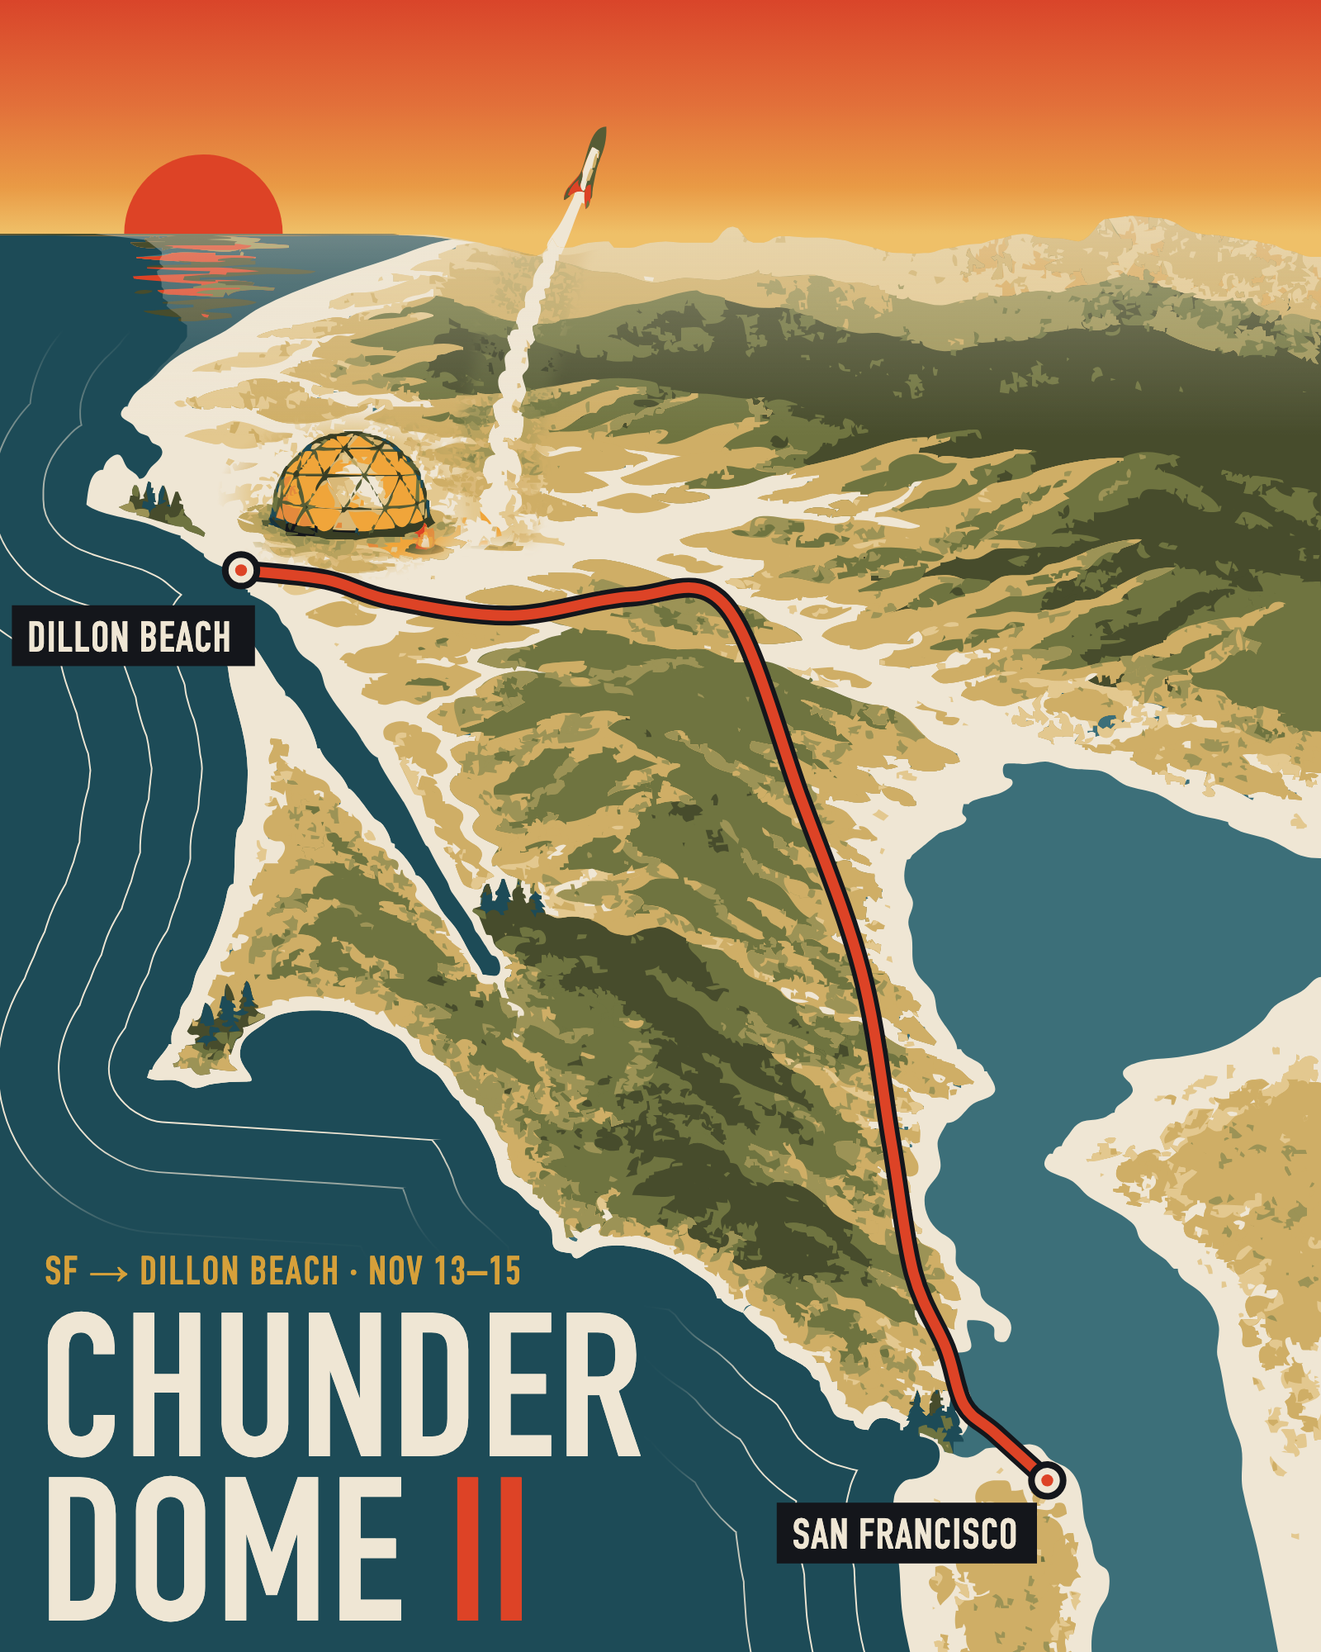
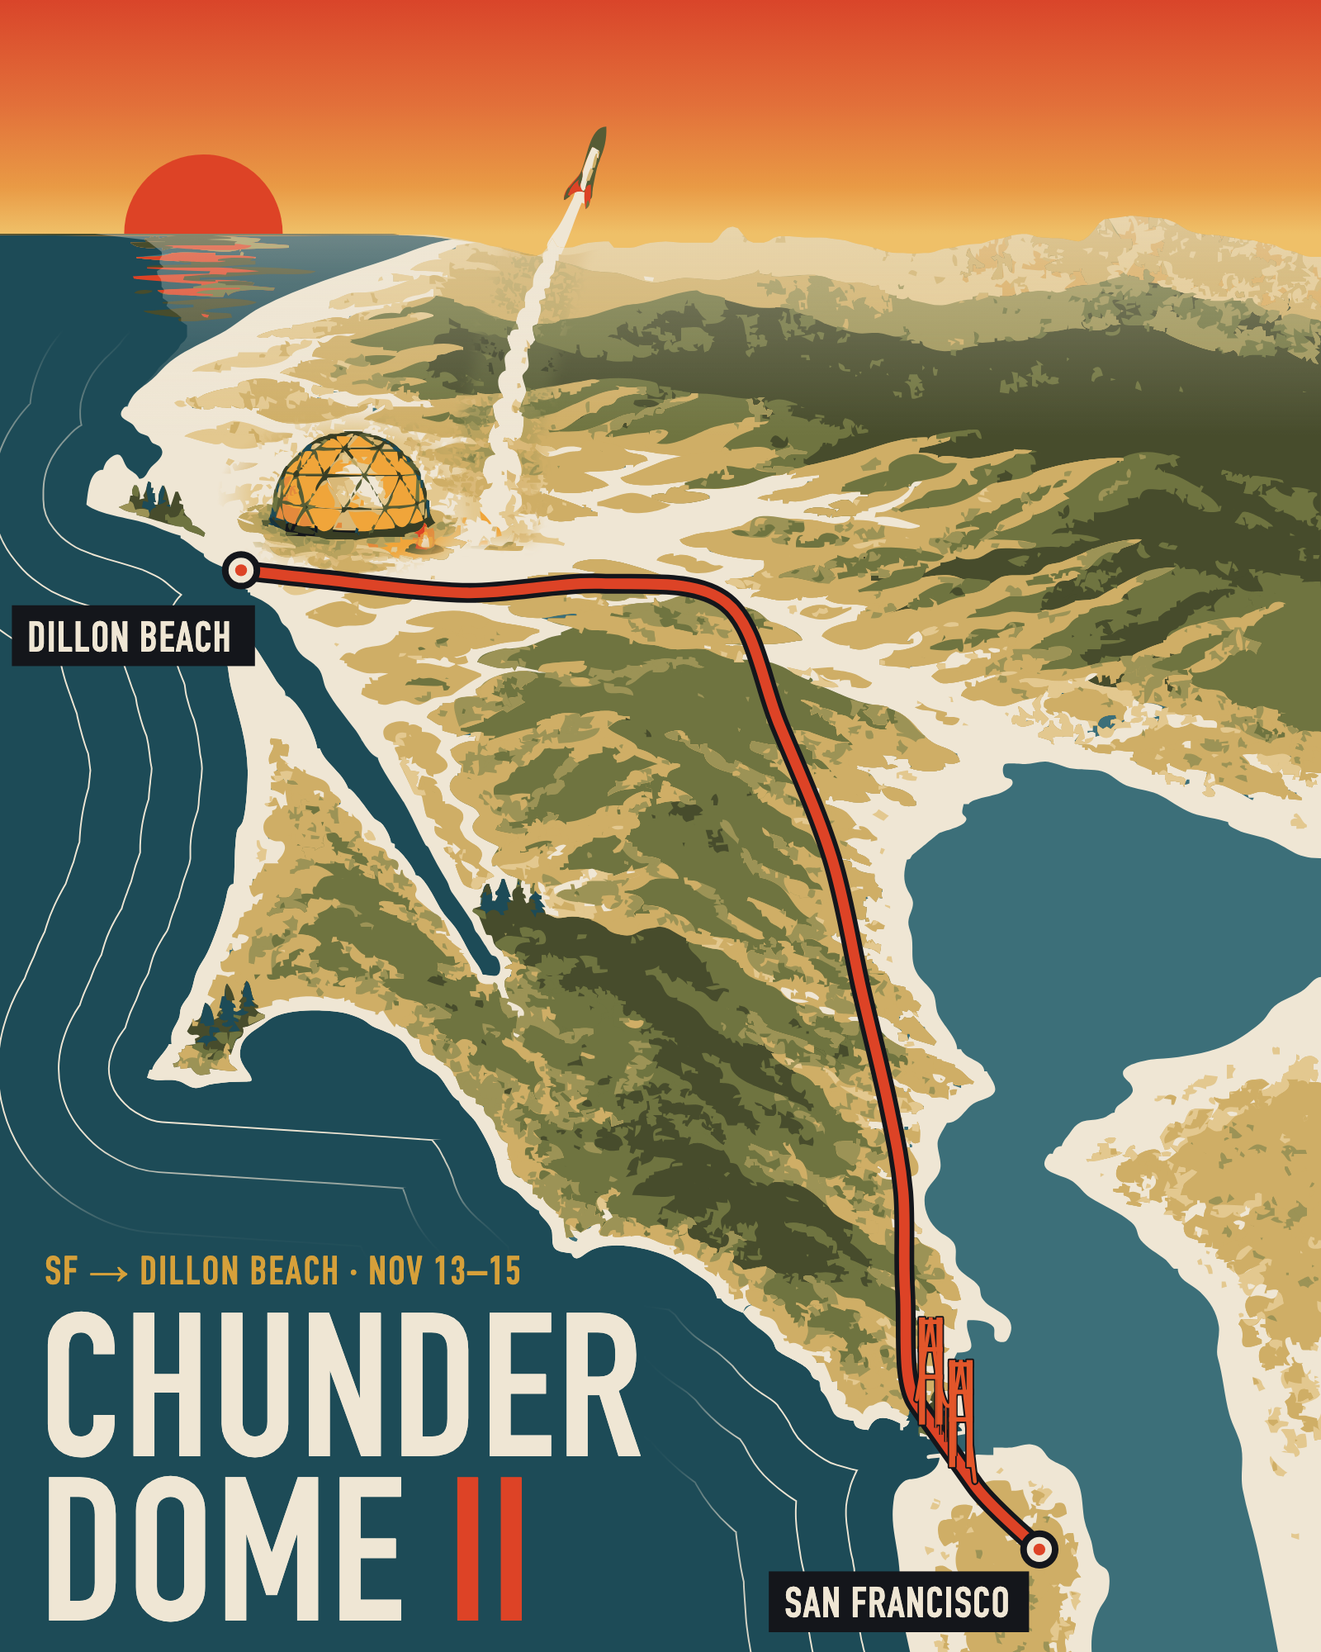
feat: poster map v4 — Golden Gate Bridge and a correct crossing
The art had closed the strait and sat ~40px south of the projection, so
the route crossed open bay. Cut the strait back in as a vector channel,
draw the Golden Gate Bridge (International Orange towers, cable drape)
spanning it, and rebuild the route from real road waypoints registered
to the art at the bridge anchorages. verify_route.py: 0 of 1155 samples
on water off the bridge; overlay in map/poster/route-check.png.

Changed region(s): [[0.2188, 0.341, 0.8125, 0.992]]

diff --git a/components/MapArt.tsx b/components/MapArt.tsx
@@ -8,7 +8,7 @@ export default function MapArt() {
     <div className="poster-frame">
       <Image
         src={poster}
-        alt="Screen-print poster map: Chunderdome II, from San Francisco over the Golden Gate, north on 101 and west through Tomales to the dome at Dillon Beach, where a model rocket is launching at sunset"
+        alt="Screen-print poster map: Chunderdome II, from San Francisco across the Golden Gate Bridge, north on 101 and west through Tomales to the dome at Dillon Beach, where a model rocket is launching at sunset"
         priority
         placeholder="blur"
         sizes="(max-width: 560px) 100vw, 560px"

diff --git a/map/poster/scripts/compose4.py b/map/poster/scripts/compose4.py
@@ -1,0 +1,188 @@
+# Compose poster map v4 (adds the Golden Gate strait + bridge and a registered real-road route):
+# was v3: Monge-traced v5 terrain (dome and model rocket painted in) + native vector sky, haze,
+# bathymetry (from Monge's own traced coastline), smoothed route, markers, plates and type.
+import sys, re, json; sys.path.insert(0, __file__.rsplit('/',1)[0]); from geo import *
+D = __file__.rsplit('/',2)[0]
+INK, CREAM, VERM, TEAL, OCHRE, OLIVE = '#14161b', '#efe6d4', '#dd4326', '#1d4b57', '#d6a03a', '#6f7440'
+FONT = "'DIN Condensed', 'Oswald', 'Bebas Neue', 'Arial Narrow', Impact, sans-serif"
+K = 1000 / 1024
+
+src = open(f'{D}/sources/terrain-v5-clean.svg').read()
+terrain = re.sub(r'^.*?<svg[^>]*>|</svg>\s*$', '', src, flags=re.S)
+# The painted dome and rocket, from Monge's 16-colour cartoon retrace of the same raster (exactly aligned).
+dome_detail = re.sub(r'^.*?<svg[^>]*>|</svg>\s*$', '', open(f'{D}/sources/detail-v5.svg').read(), flags=re.S)
+# The coastline the art actually drew: open Pacific scanned row by row from the raster (scripts/coast.mjs).
+coast = json.load(open(f'{D}/sources/coast-v5.json'))
+ocean_d = (f'M{coast[0][0]},-400 ' + ' '.join(f'L{x},{y}' for x, y in coast)
+           + f' L{coast[-1][0]},1650 L-400,1650 L-400,-400 Z')
+
+sky = json.load(open(f'{D}/sources/skyline-v5.json'))
+HORIZON = sky[0][1]
+# Left of the ridges is open sea running to the horizon; the sun sets into it.
+sky = [[x, HORIZON if x < 300 else y] for x, y in sky]
+sky_d = 'M0,0 ' + ' '.join(f'L{x},{y}' for x, y in sky) + ' L1000,0 Z'
+below_d = 'M0,1250 ' + ' '.join(f'L{x},{y}' for x, y in sky) + ' L1000,1250 Z'
+
+def smooth(pts, before=None, after=None):
+    # Catmull-Rom through the route points, as cubic Béziers; before/after set the end tangents.
+    p = [before or pts[0]] + pts + [after or pts[-1]]
+    out = f'M{p[1][0]:.1f},{p[1][1]:.1f}'
+    for i in range(1, len(p) - 2):
+        a, b, c, d = p[i - 1], p[i], p[i + 1], p[i + 2]
+        c1 = (b[0] + (c[0] - a[0]) / 6, b[1] + (c[1] - a[1]) / 6)
+        c2 = (c[0] - (d[0] - b[0]) / 6, c[1] - (d[1] - b[1]) / 6)
+        out += f' C{c1[0]:.1f},{c1[1]:.1f} {c2[0]:.1f},{c2[1]:.1f} {c[0]:.1f},{c[1]:.1f}'
+    return out
+
+# Real road waypoints: SF via 19th Ave/Park Presidio, the bridge deck, US-101 through Marin to Petaluma,
+# Bodega Ave/Tomales Rd west through Tomales, Dillon Beach Rd to Dillon Beach.
+ROAD = [(37.765,-122.42),(37.8078,-122.4750),                       # SF -> south anchorage
+        (37.8324,-122.4795),                                                          # north anchorage
+        (37.885,-122.505),(37.925,-122.515),(37.97,-122.527),(38.03,-122.545),(38.10,-122.565),
+        (38.17,-122.60),(38.235,-122.636),(38.245,-122.72),(38.24,-122.81),(38.247,-122.905),(38.252,-122.962)]
+SOUTH, NORTH = 1, 2   # indices of the bridge anchorages in ROAD
+
+# The art drew the Golden Gate about 40px south of the projection, so register the route to the art with a
+# local displacement field: control points measured on raster-v5 (scripts/gridcrop.py), Gaussian falloff.
+BRIDGE_S, BRIDGE_N = (738.0, 1124.0), (694.0, 1062.0)   # anchorages on the art's SF tip and Marin headland (poster-scale span)
+CONTROLS = [(P(*ROAD[SOUTH]), BRIDGE_S), (P(*ROAD[NORTH]), BRIDGE_N), (P(*ROAD[0]), (786.0, 1170.0))]
+def register(p, sigma=60.0):
+    import math
+    sx = sy = sw = 0.0
+    for (c, t) in CONTROLS:
+        w = math.exp(-((p[0]-c[0])**2 + (p[1]-c[1])**2) / (2 * sigma * sigma))
+        sx += w * (t[0] - c[0]); sy += w * (t[1] - c[1]); sw += w
+    k = 1 / max(1.0, sw)
+    return (p[0] + sx * k, p[1] + sy * k)
+ROUTE_XY = [register(P(*q)) for q in ROAD]
+ROUTE_XY[SOUTH], ROUTE_XY[NORTH] = BRIDGE_S, BRIDGE_N
+
+# Curves on land; the span is straight, and the curves leave each anchorage along the deck.
+deck = (BRIDGE_N[0] - BRIDGE_S[0], BRIDGE_N[1] - BRIDGE_S[1])
+a, b = ROUTE_XY[SOUTH - 1], ROUTE_XY[NORTH + 1]
+head = smooth(ROUTE_XY[:SOUTH + 1], after=(a[0] + 1.6 * deck[0], a[1] + 1.6 * deck[1]))
+tail = smooth(ROUTE_XY[NORTH:], before=(b[0] - 1.6 * deck[0], b[1] - 1.6 * deck[1]))
+route = head + f' L{BRIDGE_N[0]},{BRIDGE_N[1]} ' + tail[tail.index('C'):]
+sf, dil = ROUTE_XY[0], ROUTE_XY[-1]
+DOME = (264, 371)
+
+SIZE = 32
+def plate(text, x, y, anchor):
+    """Ink plate whose vertical centre sits on y; anchor 'left' puts its left edge at x, 'right' its right edge."""
+    w = len(text) * (SIZE * 0.385 + 1) + 24; h = SIZE + 14
+    x0 = x if anchor == 'left' else x - w
+    return (f'<rect x="{x0:.0f}" y="{y - h/2:.0f}" width="{w:.0f}" height="{h:.0f}" fill="{INK}"/>'
+            f'<text x="{x0 + 12:.0f}" y="{y + SIZE*0.36:.0f}" font-size="{SIZE}" fill="{CREAM}">{text}</text>')
+
+# The art closed the Golden Gate with a sandy neck; cut the strait back in (real width ~1.6 km = ~20 px here).
+CHANNEL = 'M684,1086 C700,1088 712,1087 724,1085 C732,1083 740,1081 752,1080 L752,1101 C740,1101 732,1100 724,1100 C712,1101 700,1103 684,1104 Z'
+SHORES = 'M703,1087.6 C712,1087 718,1086 731,1083.6 M703,1102.4 C712,1101.2 718,1100.2 731,1100'
+
+def bridge():
+    """Golden Gate Bridge in International Orange: deck on the route, two Art-Deco towers, main cable drape."""
+    (sx, sy), (nx, ny) = BRIDGE_S, BRIDGE_N; H = 80.0; ORANGE = '#e3562a'
+    at = lambda t: (sx + (nx - sx) * t, sy + (ny - sy) * t)
+    t1, t2 = at(0.24), at(0.76); top1, top2 = (t1[0], t1[1] - H), (t2[0], t2[1] - H)
+    mid = ((top1[0] + top2[0]) / 2, (top1[1] + top2[1]) / 2 + H * 0.62)
+    cable = (f'M{sx:.1f},{sy - 3:.1f} Q{(sx + top1[0]) / 2 + 1:.1f},{(sy + top1[1]) / 2 + 6:.1f} {top1[0]:.1f},{top1[1]:.1f}'
+             f' Q{2 * mid[0] - (top1[0] + top2[0]) / 2:.1f},{2 * mid[1] - (top1[1] + top2[1]) / 2:.1f} {top2[0]:.1f},{top2[1]:.1f}'
+             f' Q{(nx + top2[0]) / 2 - 1:.1f},{(ny + top2[1]) / 2 + 6:.1f} {nx:.1f},{ny - 3:.1f}')
+    hangers = ''
+    for i in range(1, 6):
+        t = 0.24 + 0.52 * i / 6; d = at(t)
+        u = i / 6; cy = (1 - u) ** 2 * top1[1] + 2 * u * (1 - u) * (2 * mid[1] - (top1[1] + top2[1]) / 2) + u * u * top2[1]
+        hangers += f'<line x1="{d[0]:.1f}" y1="{d[1] - 2:.1f}" x2="{d[0]:.1f}" y2="{cy + 1:.1f}"/>'
+    def tower(base):
+        x, y = base; w = 4.6; gap = 6.6
+        legs = ''.join(f'<rect x="{x + o - w / 2:.1f}" y="{y - H:.1f}" width="{w}" height="{H + 1:.1f}"/>' for o in (-gap, gap))
+        beams = ''.join(f'<rect x="{x - gap - w / 2:.1f}" y="{y - H * f:.1f}" width="{2 * gap + w:.1f}" height="3.4"/>' for f in (0.98, 0.72, 0.46))
+        return legs + beams
+    towers = tower(t1) + tower(t2)
+    return (f'<g id="golden-gate-bridge">'
+            f'<g fill="none" stroke="{INK}" stroke-width="5.4" stroke-linecap="round"><path d="{cable}"/></g>'
+            f'<g stroke="{INK}" stroke-width="2.6">{hangers}</g>'
+            f'<g fill="{INK}" stroke="{INK}" stroke-width="2.2" stroke-linejoin="round">{towers}</g>'
+            f'<g fill="none" stroke="{ORANGE}" stroke-width="2.8" stroke-linecap="round"><path d="{cable}"/></g>'
+            f'<g stroke="{ORANGE}" stroke-width="0.9">{hangers}</g>'
+            f'<g fill="{ORANGE}">{towers}</g></g>')
+
+def marker(p):
+    return (f'<circle cx="{p[0]:.1f}" cy="{p[1]:.1f}" r="12" fill="{CREAM}" stroke="{INK}" stroke-width="5"/>'
+            f'<circle cx="{p[0]:.1f}" cy="{p[1]:.1f}" r="4.5" fill="{VERM}"/>')
+
+contours = ''.join(f'<path d="{ocean_d}" stroke="{CREAM}" stroke-width="{2*d+2.4}"/><path d="{ocean_d}" stroke="{TEAL}" stroke-width="{2*d}"/>'
+                   for d in (118, 72, 34))
+
+svg = f'''<svg xmlns="http://www.w3.org/2000/svg" viewBox="0 0 1000 1250" width="1200" height="1500">
+<title>Chunderdome II route map: San Francisco to Dillon Beach</title>
+<defs>
+  <clipPath id="frame"><rect width="1000" height="1250"/></clipPath>
+  <clipPath id="sky"><path d="{sky_d}"/></clipPath>
+  <clipPath id="land-and-sea"><path d="{below_d}"/></clipPath>
+  <clipPath id="sea"><path d="{ocean_d}"/></clipPath>
+  <linearGradient id="dusk" gradientUnits="userSpaceOnUse" x1="0" y1="0" x2="0" y2="{HORIZON}">
+    <stop offset="0" stop-color="#d9452a"/><stop offset="0.45" stop-color="#e2703a"/>
+    <stop offset="0.8" stop-color="#e99a45"/><stop offset="1" stop-color="#efc068"/>
+  </linearGradient>
+  <linearGradient id="haze" gradientUnits="userSpaceOnUse" x1="0" y1="{HORIZON - 70}" x2="0" y2="330">
+    <stop offset="0" stop-color="{CREAM}" stop-opacity="0.62"/><stop offset="0.45" stop-color="{CREAM}" stop-opacity="0.28"/>
+    <stop offset="1" stop-color="{CREAM}" stop-opacity="0"/>
+  </linearGradient>
+  <linearGradient id="offshore-fade" gradientUnits="userSpaceOnUse" x1="0" y1="250" x2="0" y2="420">
+    <stop offset="0" stop-color="#000"/><stop offset="1" stop-color="#fff"/>
+  </linearGradient>
+  <radialGradient id="glow"><stop offset="0" stop-color="#f6c45a" stop-opacity="0.55"/><stop offset="0.5" stop-color="#e48a3c" stop-opacity="0.22"/><stop offset="1" stop-color="#e48a3c" stop-opacity="0"/></radialGradient>
+  <filter id="soft" x="-30%" y="-30%" width="160%" height="160%"><feGaussianBlur stdDeviation="5"/></filter>
+  <radialGradient id="dome-fade"><stop offset="0.72" stop-color="#fff"/><stop offset="1" stop-color="#000"/></radialGradient>
+  <mask id="dome-feather" maskUnits="userSpaceOnUse" x="0" y="0" width="1000" height="1250">
+    <ellipse cx="{DOME[0]}" cy="{DOME[1] + 4}" rx="100" ry="66" fill="url(#dome-fade)"/>
+    <g filter="url(#soft)"><path d="M352,410 L346,330 L380,190 L425,80 L470,60 L488,90 L440,200 L408,330 L404,410 Z" fill="#fff"/></g>
+  </mask>
+  <linearGradient id="strait-water" gradientUnits="userSpaceOnUse" x1="684" y1="0" x2="752" y2="0">
+    <stop offset="0.3" stop-color="#1d4b57"/><stop offset="0.85" stop-color="#3c6f79"/>
+  </linearGradient>
+  <filter id="feather" x="-20%" y="-20%" width="140%" height="140%"><feGaussianBlur stdDeviation="22"/></filter>
+  <mask id="offshore" maskUnits="userSpaceOnUse" x="0" y="0" width="1000" height="1250">
+    <rect width="1000" height="1250" fill="url(#offshore-fade)"/>
+    <g filter="url(#feather)"><rect x="-60" y="900" width="600" height="420" fill="#000"/></g>
+    <path d="{ocean_d}" fill="none" stroke="#000" stroke-width="30" stroke-linejoin="round"/>
+  </mask>
+  <mask id="dry-land" maskUnits="userSpaceOnUse" x="0" y="0" width="1000" height="1250">
+    <rect width="1000" height="1250" fill="#fff"/><path d="{ocean_d}" fill="#000"/>
+  </mask>
+  <clipPath id="above-horizon"><rect width="1000" height="{HORIZON}"/></clipPath>
+</defs>
+<g clip-path="url(#frame)">
+  <g id="terrain" transform="scale({K})">{terrain}</g>
+  <g id="bathymetry" clip-path="url(#sea)" mask="url(#offshore)" fill="none" stroke-linejoin="round">
+    <rect width="1000" height="1250" fill="{TEAL}" stroke="none"/>{contours}
+  </g>
+  <g id="golden-gate-strait">
+    <path d="{CHANNEL}" fill="url(#strait-water)"/>
+    <path d="{SHORES}" fill="none" stroke="{CREAM}" stroke-width="3" stroke-linecap="round"/>
+  </g>
+  <g id="dome-and-rocket" mask="url(#dome-feather)"><g transform="scale({K})">{dome_detail}</g></g>
+  <rect id="haze-layer" clip-path="url(#land-and-sea)" mask="url(#dry-land)" y="{HORIZON - 70}" width="1000" height="{400 - HORIZON}" fill="url(#haze)"/>
+  <g id="sky-layer" clip-path="url(#sky)">
+    <rect width="1000" height="{HORIZON + 30}" fill="url(#dusk)"/>
+    <circle cx="154" cy="{HORIZON}" r="60" fill="{VERM}" clip-path="url(#above-horizon)"/>
+  </g>
+  <g id="rocket-in-sky" clip-path="url(#sky)" mask="url(#dome-feather)"><g transform="scale({K})">{dome_detail}</g></g>
+  <g id="route" fill="none" stroke-linecap="round" stroke-linejoin="round">
+    <path d="{route}" stroke="{INK}" stroke-width="15"/>
+    <path d="{route}" stroke="{VERM}" stroke-width="8"/>
+  </g>
+  {bridge()}
+  <g id="markers">{marker(sf)}{marker(dil)}</g>
+  <g id="labels" font-family="{FONT}" font-weight="700" letter-spacing="1">
+    {plate('SAN FRANCISCO', sf[0] - 8, sf[1] + 40, 'right')}
+    {plate('DILLON BEACH', dil[0] + 10, dil[1] + 50, 'right')}
+  </g>
+  <g id="title" font-family="{FONT}" font-weight="700" fill="{CREAM}">
+    <text x="34" y="972" font-size="30" letter-spacing="1.5" fill="{OCHRE}">SF → DILLON BEACH · NOV 13–15</text>
+    <text x="30" y="1102" font-size="152" letter-spacing="2">CHUNDER</text>
+    <text x="30" y="1226" font-size="152" letter-spacing="2">DOME <tspan fill="{VERM}">II</tspan></text>
+  </g>
+</g>
+</svg>'''
+open(f'{D}/map.svg', 'w').write(svg)

diff --git a/map/poster/scripts/verify_route.py b/map/poster/scripts/verify_route.py
@@ -1,0 +1,61 @@
+# Verify the route against the art: sample it densely, classify each sample as land/water on the source raster
+# (plus the strait cut into the vector), and require water only on the bridge span. Writes an evidence overlay.
+# usage: verify_route.py map.png raster.png out.png
+import re, sys, math
+from PIL import Image, ImageDraw
+sys.path.insert(0, __file__.rsplit('/', 1)[0])
+import compose4 as c
+from geo import P, OCEAN, BAY
+from matplotlib.path import Path as MPath
+final, ras, out = sys.argv[1:4]
+src = Image.open(ras).convert('RGB'); KR = 1024 / 1000
+strait = MPath([(684,1086),(724,1085),(752,1080),(752,1101),(724,1100),(684,1104)])
+def water(x, y):
+    if strait.contains_point((x, y)): return True
+    r, g, b = src.getpixel((int(x * KR), int(y * KR)))
+    return b >= g - 3 and b >= r + 15
+
+def samples(d, step=1.0):
+    toks = re.findall(r'[MLC]|-?\d+\.?\d*', d); i = 0; cur = None; pts = []; cmd = None
+    while i < len(toks):
+        if toks[i] in 'MLC': cmd = toks[i]; i += 1; continue
+        if cmd == 'M': cur = (float(toks[i]), float(toks[i+1])); i += 2; pts.append(cur)
+        elif cmd == 'L':
+            nxt = (float(toks[i]), float(toks[i+1])); i += 2
+            n = max(1, int(math.dist(cur, nxt) / step)); pts += [(cur[0] + (nxt[0]-cur[0]) * k / n, cur[1] + (nxt[1]-cur[1]) * k / n) for k in range(1, n + 1)]; cur = nxt
+        else:
+            c1, c2, e = [(float(toks[i+j]), float(toks[i+j+1])) for j in (0, 2, 4)]; i += 6
+            n = max(1, int((math.dist(cur, c1) + math.dist(c1, c2) + math.dist(c2, e)) / step))
+            for k in range(1, n + 1):
+                t = k / n; u = 1 - t
+                pts.append((u**3*cur[0] + 3*u*u*t*c1[0] + 3*u*t*t*c2[0] + t**3*e[0], u**3*cur[1] + 3*u*u*t*c1[1] + 3*u*t*t*c2[1] + t**3*e[1]))
+            cur = e
+    return pts
+
+def on_span(p):
+    (sx, sy), (nx, ny) = c.BRIDGE_S, c.BRIDGE_N; dx, dy = nx - sx, ny - sy
+    t = ((p[0]-sx)*dx + (p[1]-sy)*dy) / (dx*dx + dy*dy)
+    return 0 <= t <= 1 and abs((p[0]-sx)*dy - (p[1]-sy)*dx) / math.hypot(dx, dy) < 1.5
+
+pts = samples(c.route)
+bad = [p for p in pts if water(*p) and not on_span(p)]
+span = [p for p in pts if on_span(p)]
+span_water = [p for p in span if water(*p)]
+mid = ((c.BRIDGE_S[0] + c.BRIDGE_N[0]) / 2, (c.BRIDGE_S[1] + c.BRIDGE_N[1]) / 2)
+print(f'samples {len(pts)}; off-bridge samples on water: {len(bad)}; bridge-span samples: {len(span)}, '
+      f'of which over water: {len(span_water)}; strait at span midpoint: {strait.contains_point(mid)}')
+
+img = Image.open(final).convert('RGB'); S = img.width / 1000; dr = ImageDraw.Draw(img, 'RGBA')
+for poly, col in ((OCEAN, (0, 255, 255, 255)), (BAY, (0, 255, 255, 255))):
+    for q in poly:
+        x, y = P(*q); dr.ellipse([x*S-3, y*S-3, x*S+3, y*S+3], outline=col, width=2)
+for p in pts:
+    col = (255, 0, 0, 255) if p in bad else (255, 0, 255, 255) if on_span(p) else (0, 220, 0, 255)
+    dr.point((p[0]*S, p[1]*S), fill=col)
+for x, y in [c.BRIDGE_S, c.BRIDGE_N]: dr.ellipse([x*S-6, y*S-6, x*S+6, y*S+6], outline=(255, 0, 255, 255), width=3)
+dr.rectangle([0, 0, 760, 120], fill=(0, 0, 0, 170))
+dr.text((14, 12), 'Route check (green = on land, magenta = bridge span, red = off-bridge water)', fill=(255, 255, 255))
+dr.text((14, 40), f'{len(pts)} samples; off-bridge on water: {len(bad)}; span over strait water: {len(span_water)}/{len(span)}', fill=(255, 255, 255))
+dr.text((14, 68), 'cyan rings = real coastline vertices (geo.py) projected; art is registered at the Golden Gate', fill=(255, 255, 255))
+img.save(out)
+sys.exit(1 if bad or not span_water else 0)

diff --git a/map/poster/scripts/gridcrop.py b/map/poster/scripts/gridcrop.py
@@ -1,0 +1,15 @@
+# Crop the source raster around a frame-unit box, upscale, and draw a frame-unit grid with labels to read positions.
+# usage: gridcrop.py raster.png out.png x0 y0 x1 y1 step
+import sys
+from PIL import Image, ImageDraw
+ras, out, x0, y0, x1, y1, step = sys.argv[1], sys.argv[2], *map(float, sys.argv[3:8])
+K = 1024 / 1000; S = 4
+img = Image.open(ras).convert('RGB').crop((int(x0*K), int(y0*K), int(x1*K), int(y1*K)))
+img = img.resize((img.width * S, img.height * S), Image.NEAREST); dr = ImageDraw.Draw(img)
+gx = x0 - x0 % step + step
+while gx < x1:
+    X = (gx - x0) * K * S; dr.line([(X, 0), (X, img.height)], fill=(255, 0, 255), width=1); dr.text((X + 2, 2), str(int(gx)), fill=(255, 255, 255)); gx += step
+gy = y0 - y0 % step + step
+while gy < y1:
+    Y = (gy - y0) * K * S; dr.line([(0, Y), (img.width, Y)], fill=(255, 0, 255), width=1); dr.text((2, Y + 2), str(int(gy)), fill=(255, 255, 255)); gy += step
+img.save(out)

diff --git a/map/poster/notes.md b/map/poster/notes.md
@@ -91,3 +91,25 @@ The current map comes from **map-v5** and `scripts/compose3.py`.
 - `picture retrace map-v5 --profile cartoon --colours 16`, then `picture recolour` ×15, used for the dome and rocket only.
 
 **Rebuild:** run `python3 scripts/compose3.py`, then `scripts/render.sh map.svg map.png 1600 2000`.
+
+# v4 (Golden Gate Bridge and a correct crossing)
+
+The current map comes from `scripts/compose4.py`, using the same Monge art as v3 (map-v5).
+
+**James's review: no bridge, and the route crossed in the wrong place.**
+
+**Why:**
+- The art (map-v5) drew the Golden Gate about 40px south of the lat/lon projection.
+- It also closed the strait with a sandy neck, so the Pacific and the bay never met.
+- The v3 route used raw projected points, so it jumped across open bay water east of where the art's strait would be.
+
+**Fix:**
+- **The strait:** cut back into the art as a vector edit. The `CHANNEL` path is ~16px wide (the real strait is ~1.6 km, about 20px here), with a gradient from Pacific teal to bay teal and cream shore lines. It sits at the narrow gap between the art's NW tip of SF and the Marin Headlands. I measured that with `scripts/gridcrop.py`, which overlays a frame-unit grid on the raster.
+- **The route:** built from real road waypoints and projected with the same transform as the guide:
+  - SF (37.765,-122.42), then the south anchorage (37.8078,-122.4750) and the north anchorage (37.8324,-122.4795).
+  - US-101: Marin City, Corte Madera, San Rafael, Novato, Petaluma.
+  - Then Bodega Ave/Tomales Rd through Tomales, and Dillon Beach Rd to Dillon Beach.
+  - It's registered to the art with a local Gaussian displacement field. The control points are the two anchorages and SF, measured on the raster, so points far from the Golden Gate don't move.
+  - The span between the anchorages is a straight line, and the curves leave each end along the deck.
+- **The bridge:** native vector in International Orange (#e3562a) with ink outlines, matching the route and plates: two Art-Deco towers (legs plus three crossbeams), the main cable drape and hangers. It's drawn at poster scale (towers 80 units tall) so it reads at 390px. The route runs over the deck.
+- **Verification:** `scripts/verify_route.py` samples the route every frame unit (1,155 samples). It classifies each sample against the raster's water (plus the strait cut) and fails on any water outside the bridge span. Result: 0 off-bridge samples on water, and the span crosses the strait (18 of 77 span samples over water; the rest are the approaches). The evidence overlay is `map/poster/route-check.png`. Green is on land, magenta is the bridge span, and cyan rings are the real coastline vertices.
